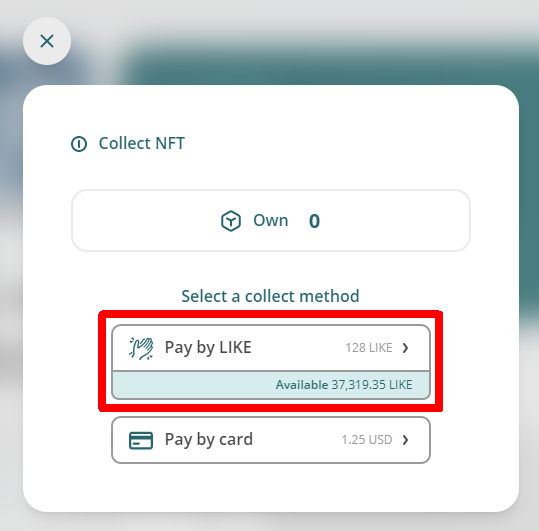
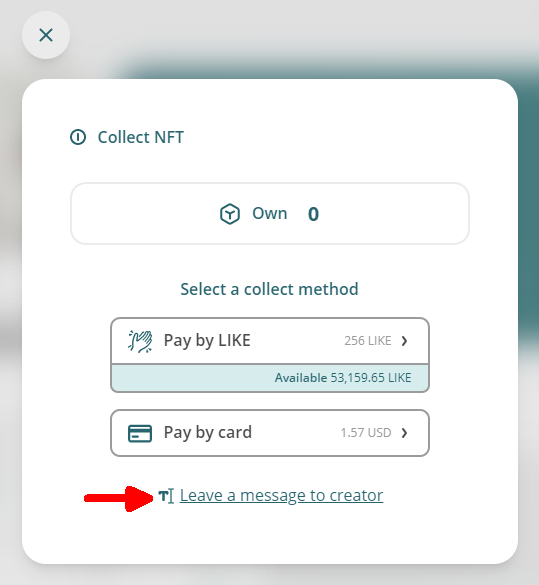
GitBook: [#4334] Collect Writing NFT

diff --git a/general-guides/writing-nft/collect-writing-nft/README.md b/general-guides/writing-nft/collect-writing-nft/README.md
@@ -114,7 +114,7 @@ Users who have a Cosmostation wallet or Liker Land app can also use a credit car
 
 ## Collect Writing NFT with LikeCoin on Desktop Computer
 
-And of course you can buy Writing NFT with LikeCoin.
+And of course you can buy Writing NFT with LikeCoin. Not only to buy creators' work to encourage them, supporters can also leave messages to motivate their favorite creator. The messages will always be attached to the work, and will be recorded in the remarks field in the on chain record.
 
 ### Login with wallets
 
@@ -128,11 +128,17 @@ A pop-up window appears, click [Keplr](../../wallet/keplr/) to login.
 
 <figure><img src="../../../.gitbook/assets/Buy NFT 04-en.png" alt=""><figcaption></figcaption></figure>
 
-Click on the Writing NFT price or "Collection Now" and the Collect NFT page pops up, click "Pay by  LIKE" and a Keplr window will pop up, then click "Approve" to confirm the purchase.
+Click on the Writing NFT price or "Collection Now" and the Collect NFT page pops up, click "Leave a message to creator".
 
 <figure><img src="../../../.gitbook/assets/Buy NFT 20-en.png" alt=""><figcaption></figcaption></figure>
 
-<figure><img src="../../../.gitbook/assets/Buy NFT 07.png" alt=""><figcaption></figcaption></figure>
+Enter the message and click "Pay by LIKE".
+
+<figure><img src="../../../.gitbook/assets/Buy NFT 20.1-en.png" alt=""><figcaption></figcaption></figure>
+
+A Keplr window will pop up, then click "Approve" to confirm the purchase.
+
+<figure><img src="../../../.gitbook/assets/Buy NFT 07-en.png" alt=""><figcaption></figcaption></figure>
 
 #### Cosmostation login
 
@@ -140,11 +146,17 @@ A pop-up window appears, click [Cosmostation](../../wallet/cosmostation/) to log
 
 <figure><img src="../../../.gitbook/assets/Buy NFT 21-en.png" alt=""><figcaption></figcaption></figure>
 
-Click on the Writing NFT price or "Collection Now" and the Collect NFT page pops up, click "Pay by LIKE" and a Keplr window will pop up, then click "Confirm" to confirm the purchase.
+Click on the Writing NFT price or "Collection Now" and the Collect NFT page pops up, click "Leave a message to creator".
 
 <figure><img src="../../../.gitbook/assets/Buy NFT 20-en.png" alt=""><figcaption></figcaption></figure>
 
-<figure><img src="../../../.gitbook/assets/Buy NFT 14.png" alt=""><figcaption></figcaption></figure>
+Enter the message and click "Pay by LIKE".
+
+<figure><img src="../../../.gitbook/assets/Buy NFT 20.1-en.png" alt=""><figcaption></figcaption></figure>
+
+A Cosmostation window will pop up, then click "Confirm" to confirm the purchase.
+
+<figure><img src="../../../.gitbook/assets/Buy NFT 14-en.png" alt=""><figcaption></figcaption></figure>
 
 ### Login with Liker Land app via Wallet Connect
 
@@ -170,7 +182,7 @@ A Liker Land app window will pop-up, click "Approve".
 
 Click on the Writing NFT price or "Collection Now" and the Collect NFT page pops up, click "Pay by LIKE" and a Wallet Connect request pops up on Liker Land app, then click "Approve" to confirm the purchase.
 
-<figure><img src="../../../.gitbook/assets/Buy NFT 20-en.png" alt=""><figcaption></figcaption></figure>
+<figure><img src="broken-reference" alt=""><figcaption></figcaption></figure>
 
 <figure><img src="../../../.gitbook/assets/Buy NFT 11-en.png" alt=""><figcaption></figcaption></figure>
 
